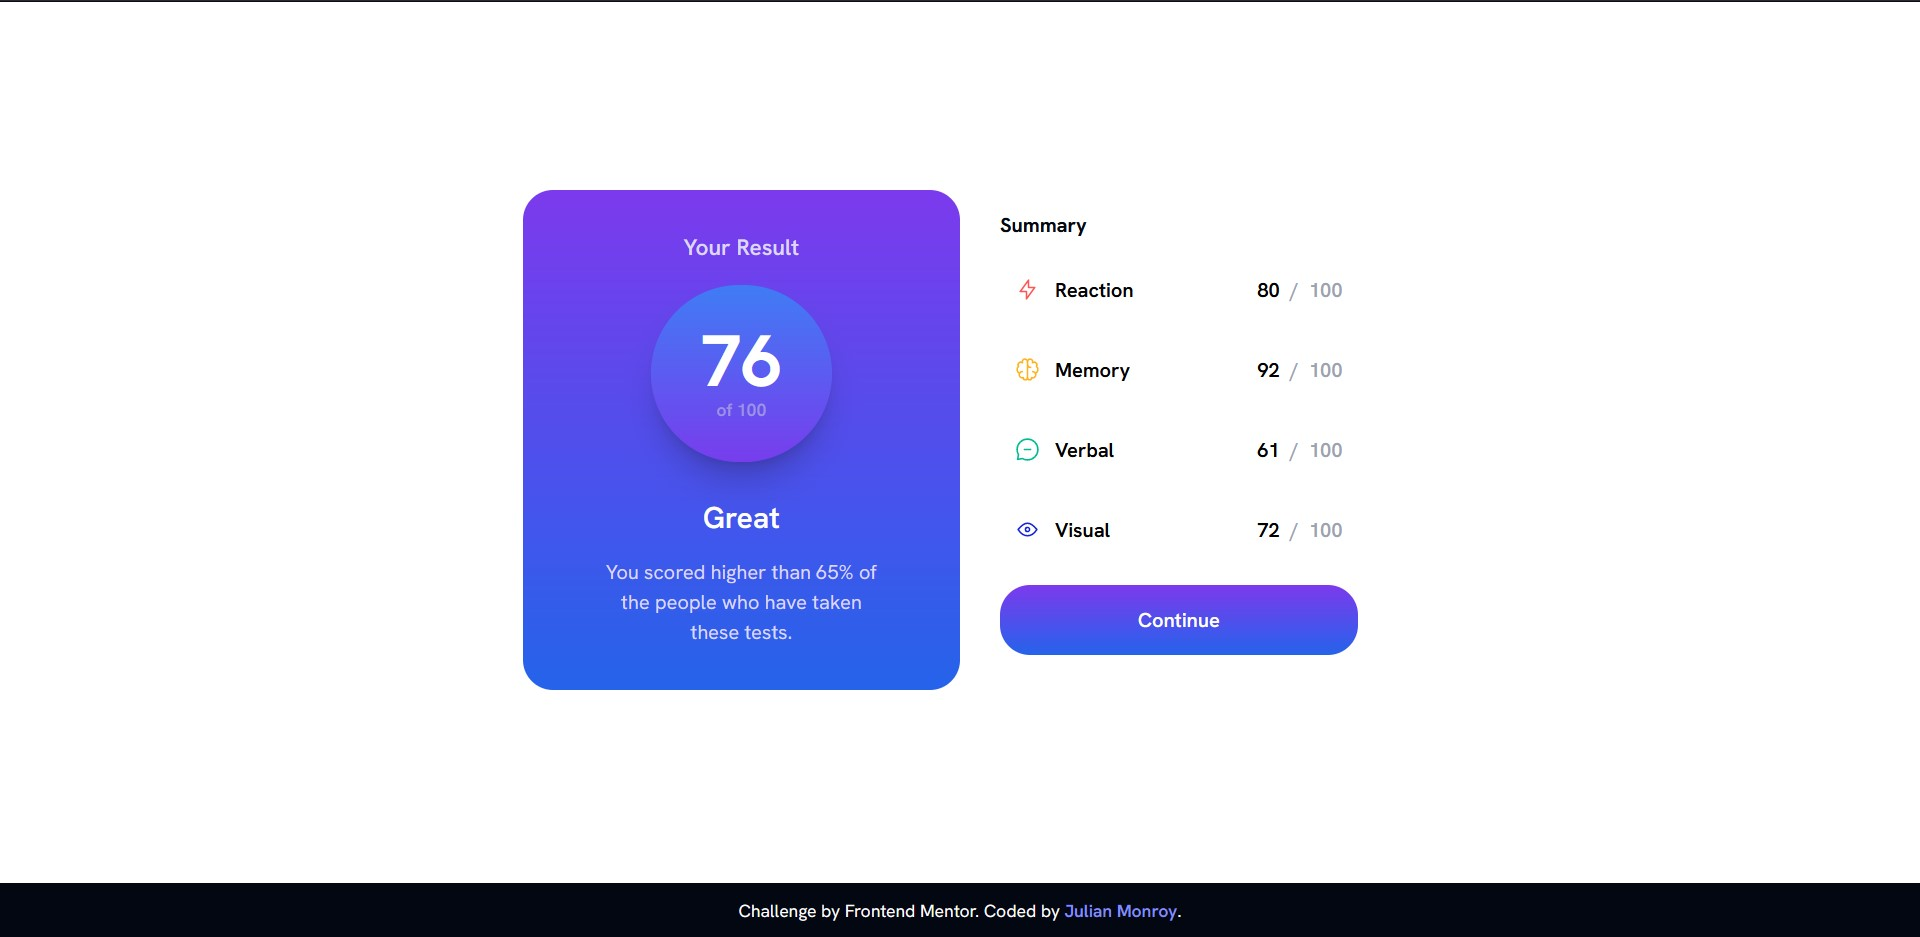
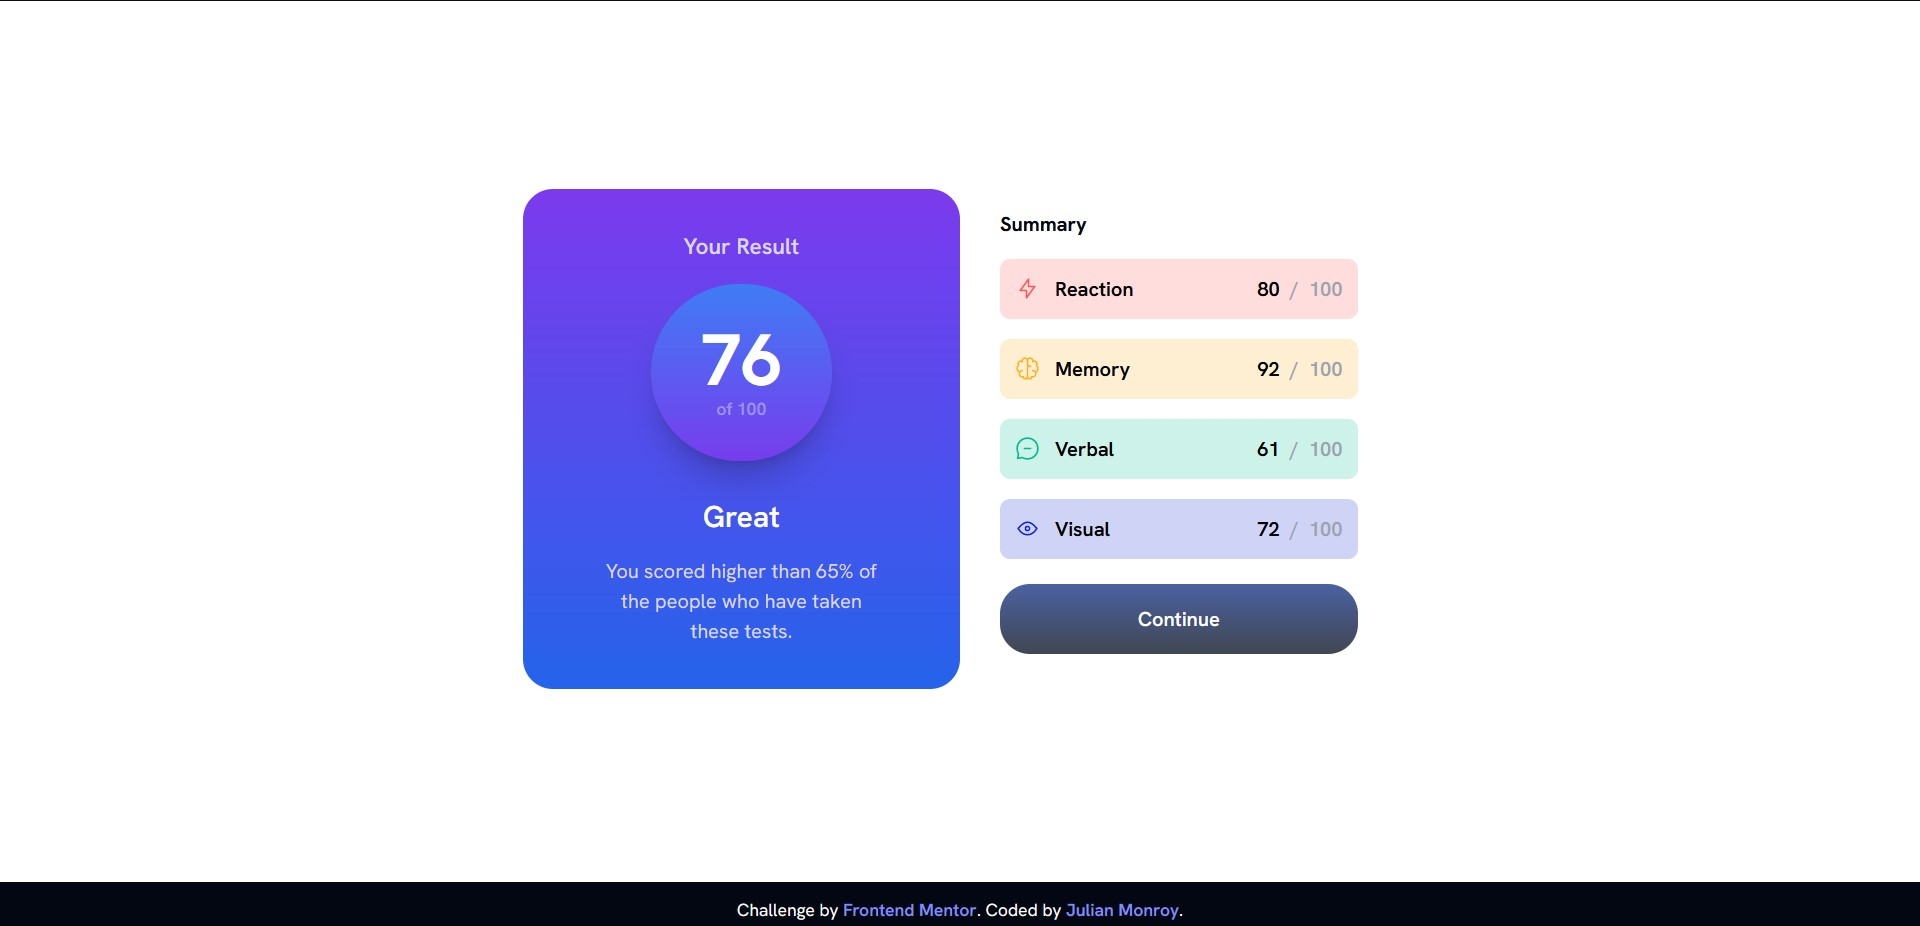
Adding screenshot

diff --git a/src/index.css b/src/index.css
@@ -22,17 +22,17 @@
 }
 
 #Reaction {
-    background-color: hsla(0, 100%, 67%, 0.3);
+    background-color: hsla(0, 100%, 67%, 0.2);
 }
 
 #Memory {
-    background-color: hsl(39, 100%, 56%, 0.3);
+    background-color: hsl(39, 100%, 56%, 0.2);
 }
 
 #Verbal {
-    background-color: hsl(166, 100%, 37%, 0.3);
+    background-color: hsl(166, 100%, 37%, 0.2);
 }
 
 #Visual {
-    background-color: hsl(234, 85%, 45%, 0.3);
+    background-color: hsl(234, 85%, 45%, 0.2);
 }
